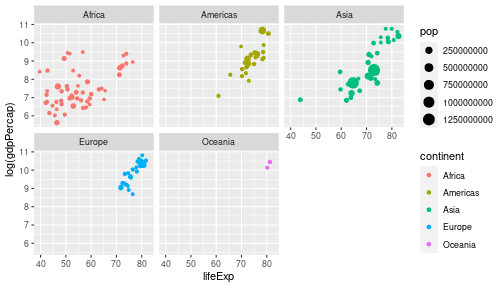
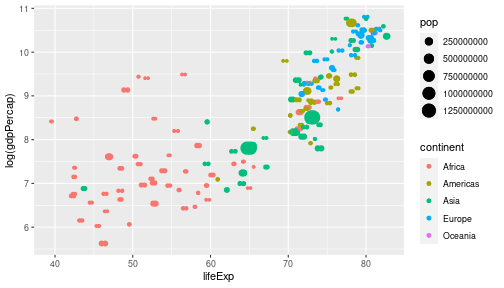
agregar comentarios ric

diff --git a/index.html b/index.html
@@ -4,7 +4,7 @@
     <title>R and databases</title>
     <meta charset="utf-8" />
     <meta name="author" content="" />
-    <meta name="date" content="2023-06-23" />
+    <meta name="date" content="2023-06-28" />
     <script src="visualizacion-2_files/header-attrs-2.21/header-attrs.js"></script>
     <link href="visualizacion-2_files/panelset-0.2.6/panelset.css" rel="stylesheet" />
     <script src="visualizacion-2_files/panelset-0.2.6/panelset.js"></script>
@@ -84,6 +84,12 @@ background-position: 100% 0%
 ### Relación entre ingreso y esperanza de vida
 
 
+.panelset[
+
+.panel[.panel-name[logaritmo]
+
+
+
 ```r
 library(tidyverse)
 
@@ -96,8 +102,29 @@ ggplot(life_gdp, aes(x = lifeExp, y = log(gdpPercap)) ) +
 
 &lt;img src="visualizacion-2_files/figure-html/unnamed-chunk-3-1.png" style="display: block; margin: auto;" /&gt;
 
+]
 
-Aplicamos una transformación logarítmica sobre el PIB para obtener una mejor visualización
+
+.panel[.panel-name[sin logaritmo]
+
+
+
+```r
+library(tidyverse)
+
+life_gdp &lt;-  gapminder %&gt;% 
+  filter(year == 2007)
+
+ggplot(life_gdp, aes(x = lifeExp, y = gdpPercap) ) + 
+  geom_point()
+```
+
+&lt;img src="visualizacion-2_files/figure-html/unnamed-chunk-4-1.png" style="display: block; margin: auto;" /&gt;
+
+
+]
+
+]
 
 
 ---
@@ -137,7 +164,7 @@ background-size: contain;
 background-position: 100% 0%
 
 # Problema: los puntos se superponen
-
+    
 * Tenemos, al menos, dos soluciones:
   + Transparencia
   + Jitter
@@ -152,7 +179,7 @@ ggplot(life_gdp, aes(x = lifeExp, y = log(gdpPercap), color = continent, size = 
   scale_size(range = c(1, 5))
 ```
 
-&lt;img src="visualizacion-2_files/figure-html/unnamed-chunk-4-1.png" style="display: block; margin: auto;" /&gt;
+&lt;img src="visualizacion-2_files/figure-html/unnamed-chunk-5-1.png" style="display: block; margin: auto;" /&gt;
 ]
 
 .panel[.panel-name[jitter]
@@ -164,7 +191,7 @@ ggplot(life_gdp, aes(x = lifeExp, y = log(gdpPercap), color = continent, size = 
   scale_size()
 ```
 
-&lt;img src="visualizacion-2_files/figure-html/unnamed-chunk-5-1.png" style="display: block; margin: auto;" /&gt;
+&lt;img src="visualizacion-2_files/figure-html/unnamed-chunk-6-1.png" style="display: block; margin: auto;" /&gt;
 ]
 ]
 
@@ -185,7 +212,7 @@ ggplot(life_gdp, aes(x = lifeExp, y = log(gdpPercap), color = continent, size = 
 * facet_wrap(~continent)
 ```
 
-&lt;img src="visualizacion-2_files/figure-html/unnamed-chunk-6-1.png" style="display: block; margin: auto;" /&gt;
+&lt;img src="visualizacion-2_files/figure-html/unnamed-chunk-7-1.png" style="display: block; margin: auto;" /&gt;
 
 ---
 background-image: url("imagenes/fondo2.PNG")
